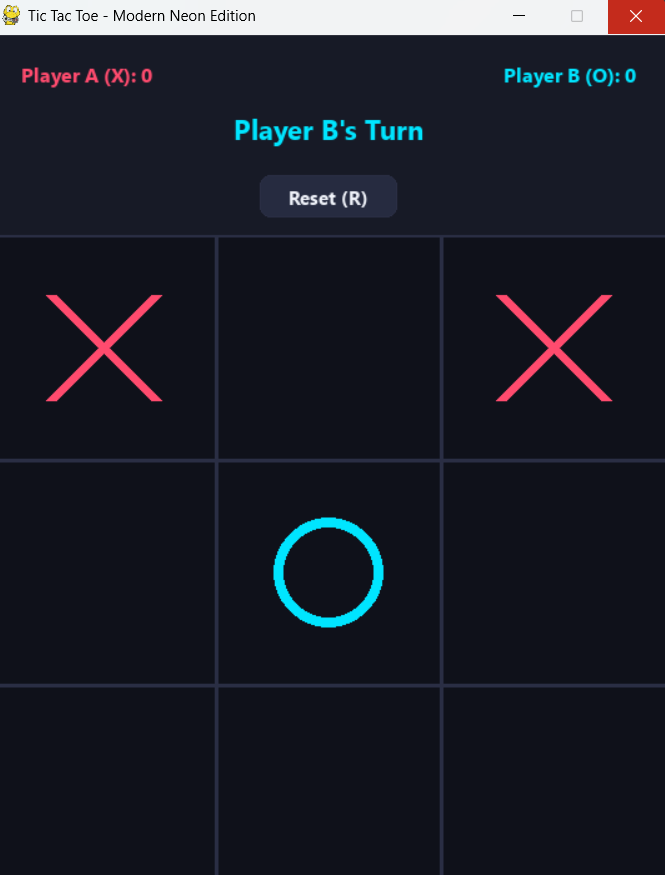
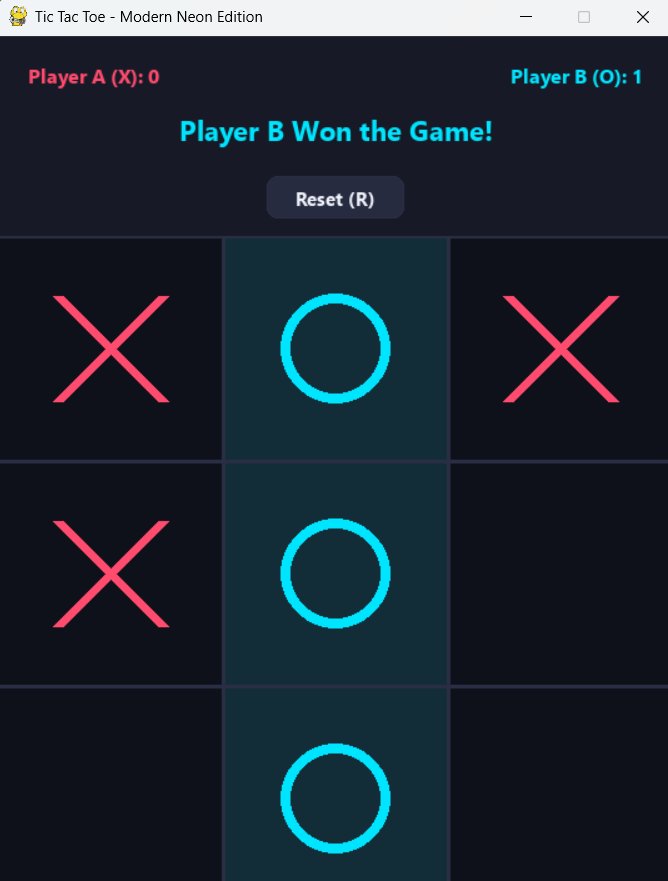
Fix README image paths and center screenshots

diff --git a/readme.md b/readme.md
@@ -27,5 +27,25 @@ Follow these steps to run the game on your computer.
 Make sure that Python is installed along, with the `pygame` library. You can install Pygame using pip:
 
 ```bash
-
 pip install pygame
+```
+
+## Screenshots
+
+<p align="center">
+  <img src="assets/menu.png" width="450" alt="Start Menu">
+  <br>
+  <em>Start Menu & Name Input</em>
+</p>
+
+<p align="center">
+  <img src="assets/game.png" width="450" alt="Gameplay">
+  <br>
+  <em>Interactive Neon Gameplay</em>
+</p>
+
+<p align="center">
+  <img src="assets/winner.png" width="450" alt="Winner Screen">
+  <br>
+  <em>Winner Announcement</em>
+</p>
